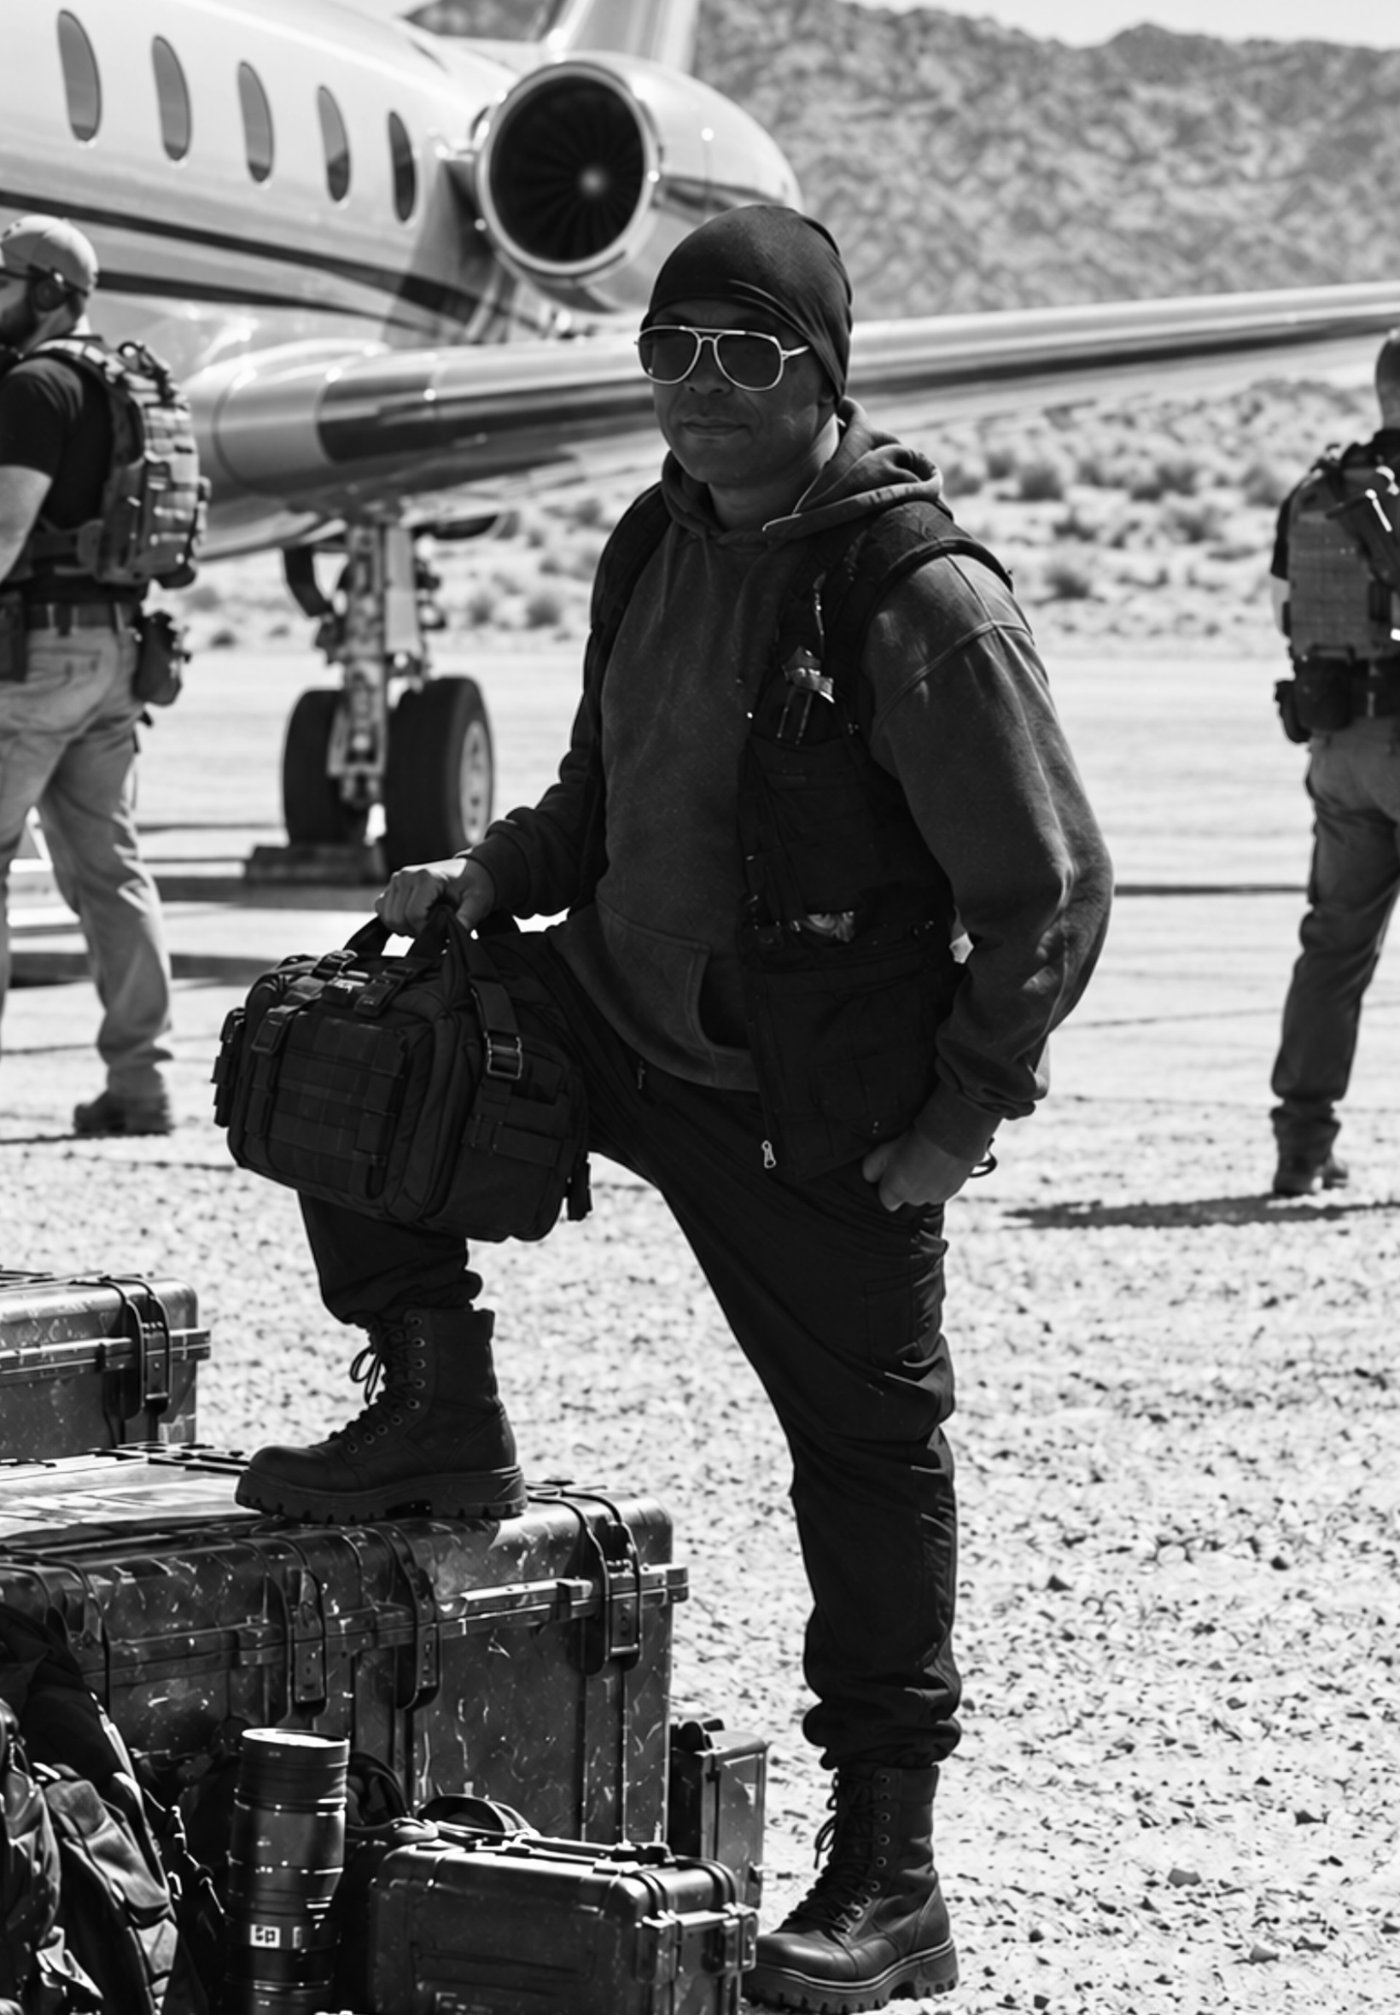
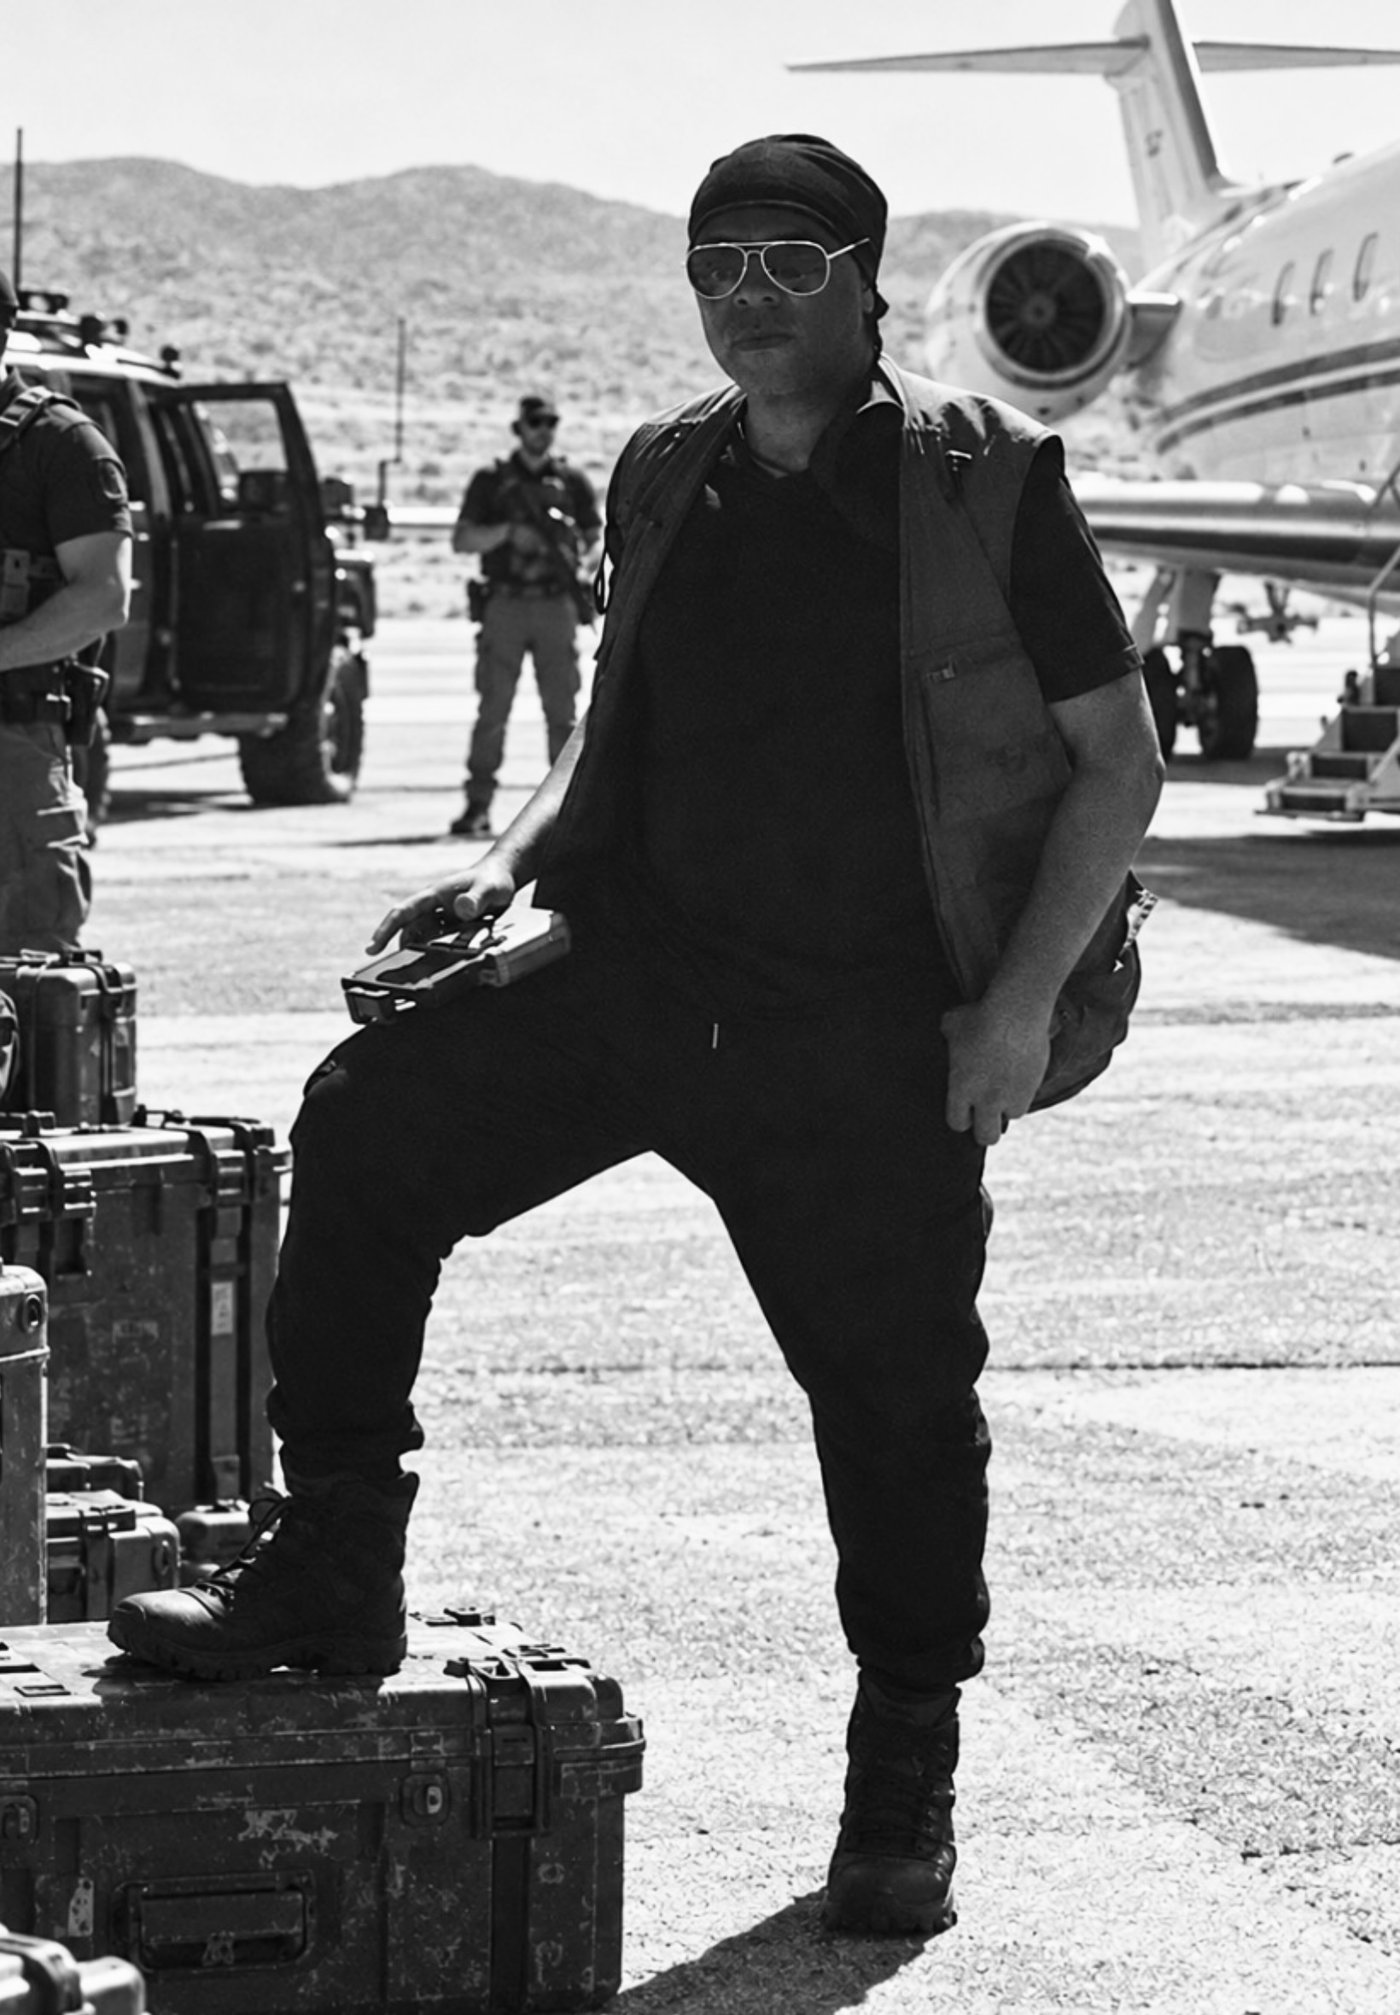
Swap Credentials background photo
Claude-Session: https://claude.ai/code/session_019GhfoUxYrq7FiaVx9WaXrX

diff --git a/index.html b/index.html
@@ -229,7 +229,7 @@ section{padding:clamp(72px,11vw,150px) 0;position:relative}
 .logos a{transition:color .2s,border-color .2s}
 .logos a:hover{color:var(--text);border-color:var(--accent)}
 .cred-section{overflow:hidden}
-.cred-bg{position:absolute;inset:0;opacity:.34;background:url("images/credentials-field.jpg") center 14%/cover no-repeat;filter:contrast(1.05)}
+.cred-bg{position:absolute;inset:0;opacity:.34;background:url("images/credentials-field.jpg") center 8%/cover no-repeat;filter:contrast(1.05)}
 .cred-section::before{content:"";position:absolute;inset:0;z-index:1;background:linear-gradient(180deg,var(--bg) 0%,rgba(11,7,7,.45) 26%,rgba(11,7,7,.5) 74%,var(--bg) 100%)}
 .cred-section .wrap{position:relative;z-index:2}
 @media(max-width:700px){.cred-bg{background-position:56% 12%}}
@@ -688,7 +688,7 @@ footer{padding:44px 0 56px;border-top:1px solid var(--line)}
 
 <!-- CREDENTIALS -->
 <section class="cred-section" id="credentials" style="border-top:1px solid var(--line)">
-  <div class="cred-bg" role="img" aria-label="Nuri Shakoor in black beanie and aviator sunglasses stepping onto a hard case with a field bag, beside a private jet on a desert airstrip"></div>
+  <div class="cred-bg" role="img" aria-label="Nuri Shakoor in black head wrap and aviator sunglasses, one boot on a hard case, on a desert airstrip beside a private jet and an armed security team"></div>
   <div class="wrap cred-wrap">
     <div>
       <p class="eyebrow rv">( Credentials )</p>
